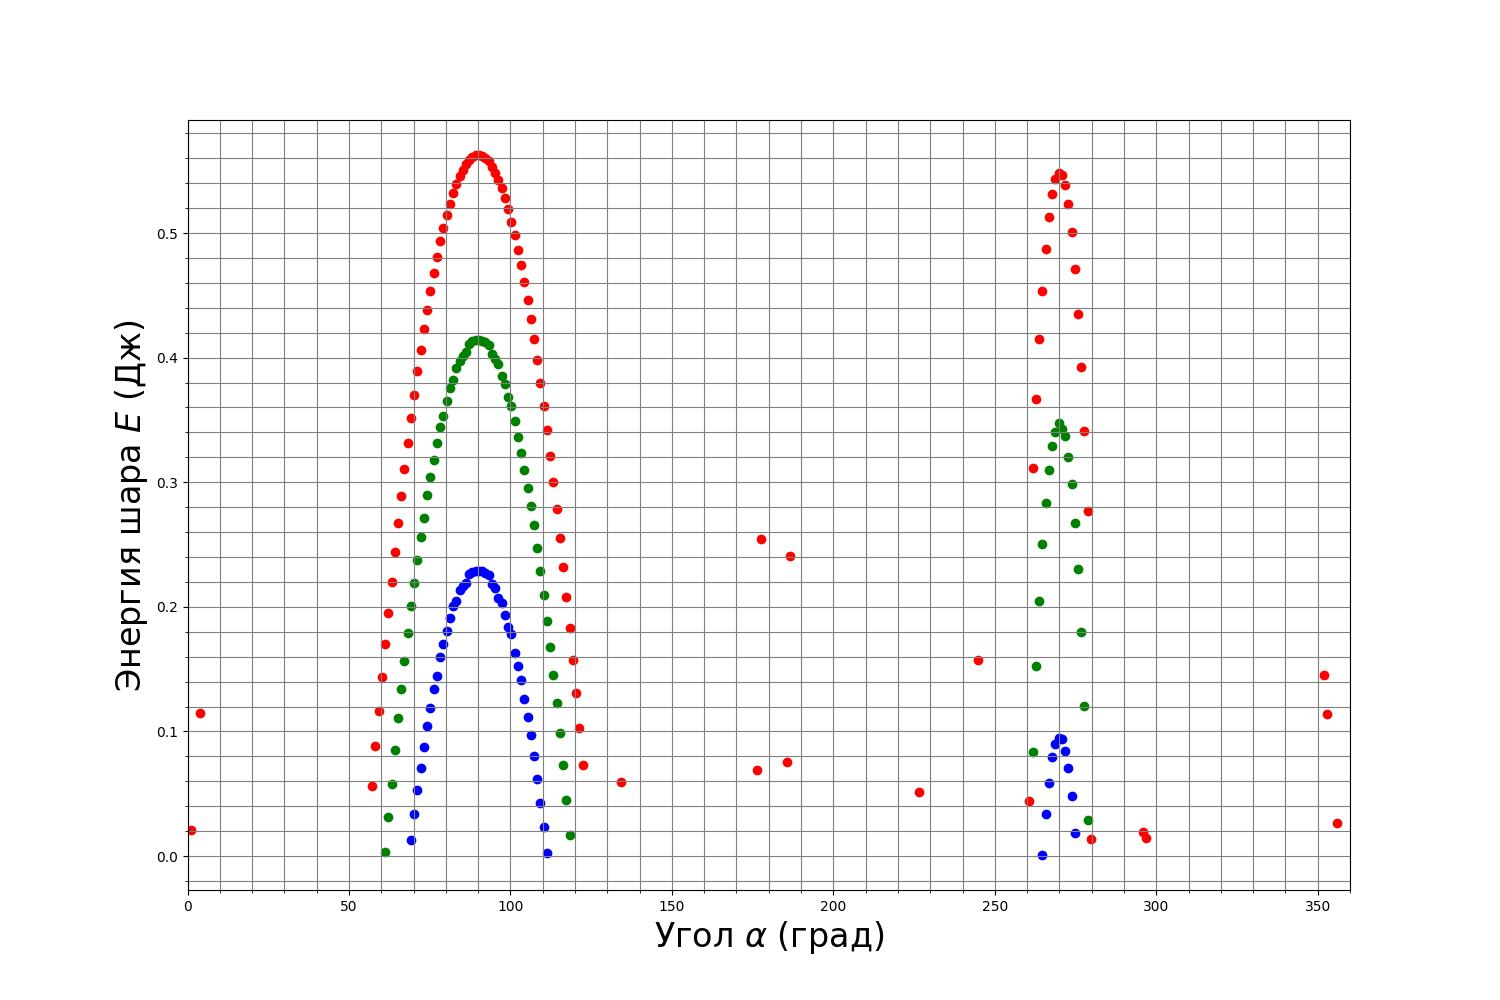
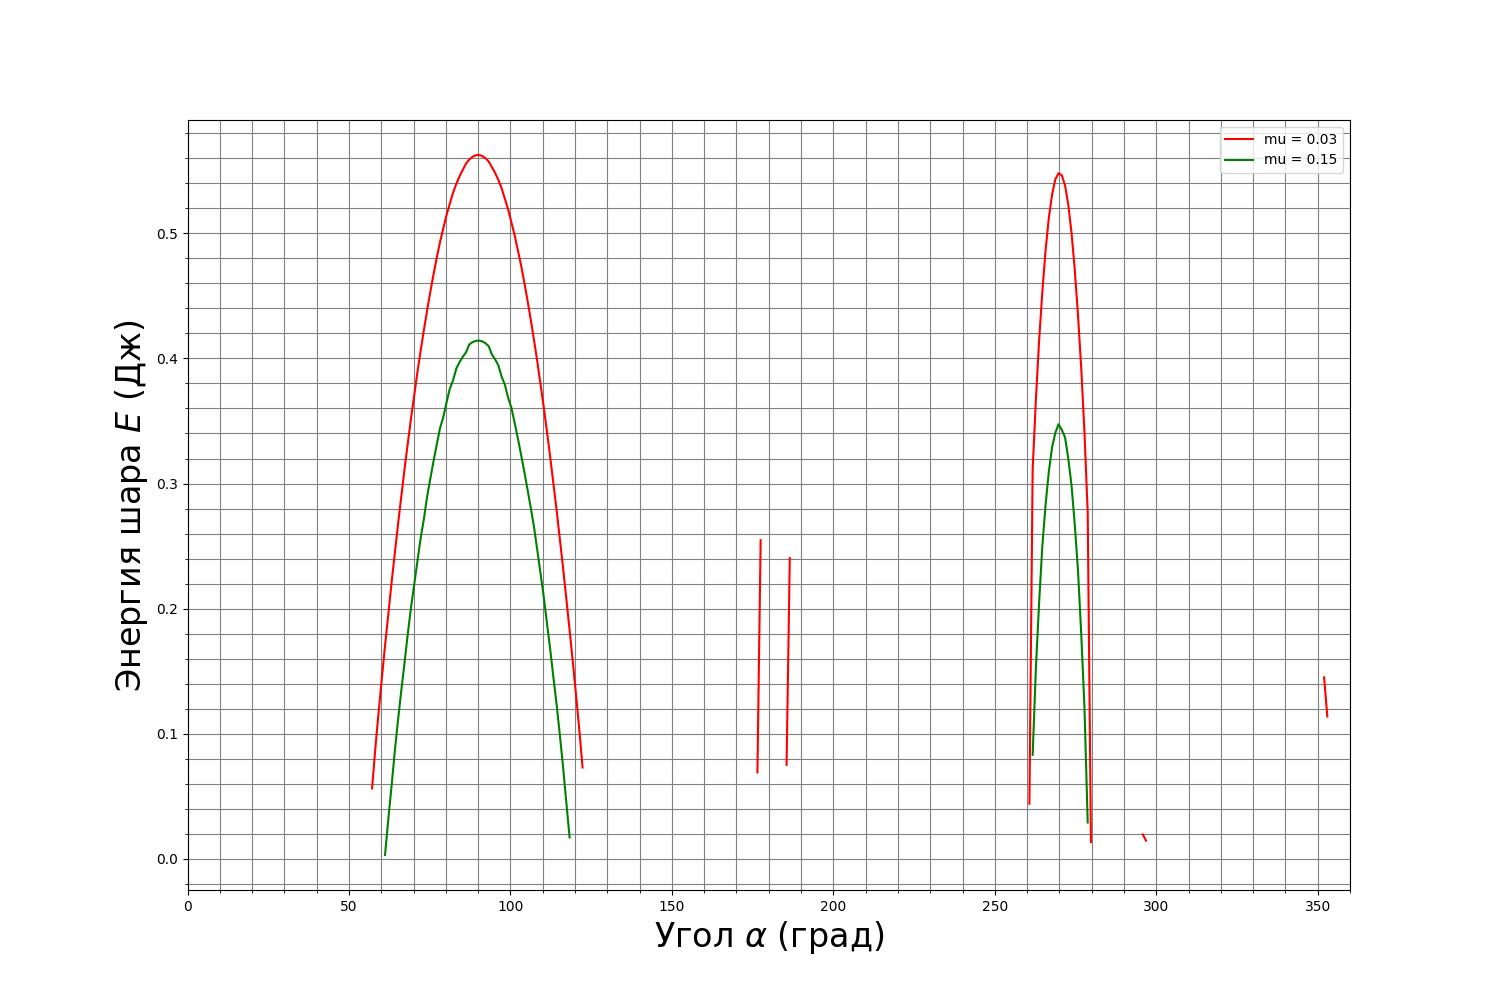
Visual fixes and added comments

diff --git a/Modeling/Billiard/__main__.py b/Modeling/Billiard/__main__.py
@@ -4,9 +4,9 @@ from copy import deepcopy
 from matplotlib import pyplot as plt
 from utils import *
 
-#длина стола ширина стола
+# длина стола ширина стола
 Lx = 2.0
-Ly = 2.0 
+Ly = 2.0
 
 # Координаты лузы
 x0 = 1
@@ -27,7 +27,7 @@ R = 0.4
 r = 0.03
 
 # Масса шаров
-m = 0.3 
+m = 0.3
 
 # начальная скорость кр шара
 V0 = 2
@@ -35,21 +35,21 @@ V0 = 2
 g = 9.8
 # к-т трения
 mu1 = 0.03
-mu2 = 0.15 
+mu2 = 0.15
 mu3 = 0.3
 
 results = {
-    mu1 : dict(zip(np.linspace(0, 2*np.pi, 360).tolist(), [-1]*360)),
-    mu2 : dict(zip(np.linspace(0, 2*np.pi, 360).tolist(), [-1]*360)),
-    mu3 : dict(zip(np.linspace(0, 2*np.pi, 360).tolist(), [-1]*360))
+    mu1: dict(zip(np.linspace(0, 2 * np.pi, 360).tolist(), [-1] * 360)),
+    mu2: dict(zip(np.linspace(0, 2 * np.pi, 360).tolist(), [-1] * 360)),
+    mu3: dict(zip(np.linspace(0, 2 * np.pi, 360).tolist(), [-1] * 360))
 }
-dt = 10./2000
+dt = 10. / 2000
 for mu, result in results.items():
     for alpha in result.keys():
-        RedBall = Ball(Coordinates(x1, y1),\
-                    Coordinates(V0*math.cos(alpha), V0*math.sin(alpha)),\
-                        Coordinates(-mu*g*math.cos(alpha), -mu*g*math.sin(alpha)),\
-                            m, r)
+        RedBall = Ball(Coordinates(x1, y1), \
+                       Coordinates(V0 * math.cos(alpha), V0 * math.sin(alpha)), \
+                       Coordinates(-mu * g * math.cos(alpha), -mu * g * math.sin(alpha)), \
+                       m, r)
         GreenBall = Ball(Coordinates(x2, y2), Coordinates(0, 0), Coordinates(0, 0), m, r)
         Hole = Ball(Coordinates(x0, y0), None, None, None, R)
         for t in np.linspace(0, 10, 2000):
@@ -62,7 +62,7 @@ for mu, result in results.items():
                         _alpha += math.pi
                     BR = RedBall.coordinates.y - RedBall.speed.y / RedBall.speed.x * RedBall.coordinates.x
                     BG = GreenBall.coordinates.y - RedBall.speed.y / RedBall.speed.x * GreenBall.coordinates.x
-                    d = (BR - BG) / math.sqrt((RedBall.speed.y / RedBall.speed.x)**2 + 1)
+                    d = (BR - BG) / math.sqrt((RedBall.speed.y / RedBall.speed.x) ** 2 + 1)
                 else:
                     if RedBall.speed.y > 0:
                         _alpha = math.pi / 2
@@ -71,16 +71,17 @@ for mu, result in results.items():
                     BR = RedBall.coordinates.x
                     BG = GreenBall.coordinates.x
                     d = BR - BG
-                if abs(BR - BG) == 0: #центральное столкновение
+                if abs(BR - BG) == 0:  # центральное столкновение
                     GreenBall.setSpeed(RedBall.getSpeed())
                     GreenBall.setAcceleration(RedBall.getAcceleration())
-                else:
-                    phi = math.acos(abs(d)/(2*r))
-                    if _alpha != math.pi / 2:
-                        if (d > 0) == (RedBall.speed.x > 0): #A
+                else:  # нецентральное соударение
+                    phi = math.acos(abs(d) / (2 * r)) #формула, получена аналитически
+                    if _alpha != math.pi / 2: #рассчет углов, при различных случаях налета шаров
+                        # вычисляются углы при соударении, дальше меняем скорости.
+                        if (d > 0) == (RedBall.speed.x > 0):  # A
                             phiRed = _alpha + phi
                             phiGreen = _alpha - (math.pi / 2 - phi)
-                        else: #B
+                        else:  # B
                             phiRed = _alpha - phi
                             phiGreen = _alpha + (math.pi / 2 - phi)
                     else:
@@ -91,43 +92,75 @@ for mu, result in results.items():
                             phiRed = _alpha - phi
                             phiGreen = _alpha + (math.pi / 2 - phi)
                     GBSpeedNorm = RedBall.speed.norm() * math.sin(_alpha - phiRed) / math.sin(phiGreen - phiRed)
-                    GreenBall.setSpeed(Coordinates(GBSpeedNorm*math.cos(phiGreen),\
-                                                GBSpeedNorm*math.sin(phiGreen)))
-                    GreenBall.setAcceleration(Coordinates(-mu*g*math.cos(phiGreen), -mu*g*math.sin(phiGreen)))
+                    GreenBall.setSpeed(Coordinates(GBSpeedNorm * math.cos(phiGreen), \
+                                                   GBSpeedNorm * math.sin(phiGreen)))     #обновление скорости зеленого
+                    GreenBall.setAcceleration(Coordinates(-mu * g * math.cos(phiGreen), -mu * g * math.sin(phiGreen)))
                     RBSpeedNorm = RedBall.speed.norm() / math.cos(phiRed) * \
-                        (math.cos(_alpha) - math.cos(phiGreen)*math.sin(_alpha - phiRed) / math.sin(phiGreen - phiRed))
-                    RedBall.setSpeed(Coordinates(RBSpeedNorm*math.cos(phiRed), RBSpeedNorm*math.sin(phiRed)))
-                    RedBall.setAcceleration(Coordinates(-mu*g*math.cos(phiRed), -mu*g*math.sin(phiRed)))
-            if GreenBall.isCollision(Hole):
-                result[alpha] = m * GreenBall.speed.norm()**2 / 2
+                                  (math.cos(_alpha) - math.cos(phiGreen) * math.sin(_alpha - phiRed) / math.sin(
+                                      phiGreen - phiRed))
+                    RedBall.setSpeed(Coordinates(RBSpeedNorm * math.cos(phiRed)
+                                                 , RBSpeedNorm * math.sin(phiRed)))     #обновление скорости красного
+                    RedBall.setAcceleration(Coordinates(-mu * g * math.cos(phiRed), -mu * g * math.sin(phiRed)))
+
+                    #обновление скоростей произошло после рассчета углов разлета в ДСК.
+            if GreenBall.isCollision(Hole): #попадание в лузу
+                result[alpha] = m * GreenBall.speed.norm() ** 2 / 2
                 break
             if RedBall.speed.x == 0 and RedBall.speed.y == 0 and GreenBall.speed.x == 0 and GreenBall.speed.y == 0:
-                break
+                break  # все шары остановились
             RedBall.isCollisionWall(Lx, Ly)
             GreenBall.isCollisionWall(Lx, Ly)
             RedBall.iteration(dt)
             GreenBall.iteration(dt)
-            
-    results[mu] = {angle:energy for angle, energy in result.items() if energy != -1}
 
-#Graph
+    # results[mu] = {angle:energy for angle, energy in result.items() if energy != -1}
+
+# Graph
 color1 = 'white'
 color2 = 'black'
 color0 = color2
+
+_results = {
+    mu1: None,
+    mu2: None,
+    mu3: None
+}
+for mu in results.keys():
+    arrays = []
+    array = {}
+    for key, value in results[mu].items():
+        if value != -1:
+            array.update({key: value})
+        else:
+            if len(array) != 0:
+                arrays.append(array.copy())
+                array.clear()
+    _results[mu] = arrays
 
 fig = plt.figure(figsize=(15, 10))
 
 ax = fig.add_subplot()
 plt.minorticks_on()
 plt.xlim((0, 360))
-plt.grid(which='major', color = 'grey')
-plt.grid(which='minor', color = 'grey')
+plt.grid(which='major', color='grey')
+plt.grid(which='minor', color='grey')
 plt.ylabel("Энергия шара $E$ (Дж)", fontsize=24, color=color0)
 plt.xlabel("Угол $\\alpha$ (град)", fontsize=24, color=color0)
 ax.tick_params(axis='x', colors=color0)
 ax.tick_params(axis='y', colors=color0)
-plt.scatter([angle * 180 / math.pi for angle in list(results[mu1].keys())], list(results[mu1].values()), color='r')
-plt.scatter([angle * 180 / math.pi for angle in list(results[mu2].keys())], list(results[mu2].values()), color='g')
-plt.scatter([angle * 180 / math.pi for angle in list(results[mu3].keys())], list(results[mu3].values()), color='b')
+colors = {
+    mu1: 'r',
+    mu2: 'g',
+    mu3: 'b'
+}
+for mu, segments in _results.items():
+    lbl = 'mu = ' + str(mu)
+    for segment in segments:
+        plt.plot([angle * 180 / math.pi for angle in list(segment.keys())], list(segment.values()), color=colors[mu],
+                 label=lbl)
+        lbl = ''
+plt.legend()
 plt.grid(True)
-plt.savefig('graph.jpg')
+
+plt.savefig('Modeling\Billiard\graph.jpg')
+plt.show()

diff --git a/Modeling/Billiard/utils.py b/Modeling/Billiard/utils.py
@@ -7,64 +7,77 @@ class Coordinates:
         self.y = y
 
     def norm(self):
-        return math.sqrt(self.x**2 + self.y**2) # ~ distance(Coordinates(0, 0))
+        return math.sqrt(self.x ** 2 + self.y ** 2)  # ~ distance(Coordinates(0, 0))
 
     def distance(self, cord):
-        return math.sqrt((self.x - cord.x)**2 + (self.y - cord.y)**2)
-    
+        return math.sqrt((self.x - cord.x) ** 2 + (self.y - cord.y) ** 2)
+
     def __add__(self, coordinates):
         return Coordinates(self.x + coordinates.x, self.y + coordinates.y)
+
     def __sub__(self, coordinates):
         return Coordinates(self.x - coordinates.x, self.y - coordinates.y)
+
     def __mul__(self, const):
-        return Coordinates(const*self.x, const*self.y)
+        return Coordinates(const * self.x, const * self.y)
+
     def __rmul__(self, const):
-        return Coordinates(const*self.x, const*self.y)
+        return Coordinates(const * self.x, const * self.y)
+
     def __truediv__(self, const):
         return Coordinates(self.x / const, self.y / const)
+
     def __lt__(self, coordinates):
         return self.x < coordinates.x or self.y < coordinates.y
 
+
 class Ball:
-    def __init__(self, coordinates : Coordinates, speed : Coordinates, acceleration : Coordinates, m, r):
+    def __init__(self, coordinates: Coordinates, speed: Coordinates, acceleration: Coordinates, m, r):
         self.coordinates = coordinates
         self.setSpeed(speed)
         self.setAcceleration(acceleration)
         self.m = m
         self.r = r
+
     def setSpeed(self, speed):
         self.speed = deepcopy(speed)
+
     def getSpeed(self):
         return self.speed
-    def setAcceleration(self, acceleration : Coordinates):
+
+    def setAcceleration(self, acceleration: Coordinates):
         self.acceleration = deepcopy(acceleration)
+
     def getAcceleration(self):
         return self.acceleration
-    
-    def iteration(self, dt):
-        dv = dt*self.acceleration
+
+    def iteration(self, dt):    #функция обновления скоростей при соударении
+        dv = dt * self.acceleration
         if abs(self.speed.x) < abs(dv.x):
             dv.x = -self.speed.x
         if abs(self.speed.y) < abs(dv.y):
             dv.y = -self.speed.y
-        self.coordinates = self.coordinates + dt*self.speed
+        self.coordinates = self.coordinates + dt * self.speed
         self.speed = self.speed + dv
 
     def isCollision(self, ball):
         return self.coordinates.distance(ball.coordinates) <= self.r + ball.r
-    
+
     def isCollisionWall(self, Lx, Ly):
         def is_collision_side(Lx):
             if self.coordinates.x + self.r >= Lx or self.coordinates.x - self.r <= 0:
                 return -1
             else:
                 return 1
+
         def is_collision_end(Ly):
             if self.coordinates.y + self.r >= Ly or self.coordinates.y - self.r <= 0:
                 return -1
             else:
                 return 1
+
         self.speed.x = self.speed.x * is_collision_side(Lx)
         self.speed.y = self.speed.y * is_collision_end(Ly)
         self.acceleration.x = self.acceleration.x * is_collision_side(Lx)
         self.acceleration.y = self.acceleration.y * is_collision_end(Ly)
+

diff --git a/Labs/Lab1/test.py b/Labs/Lab1/test.py
@@ -1,0 +1,2 @@
+while(True):
+    print(int(input())/1188)
